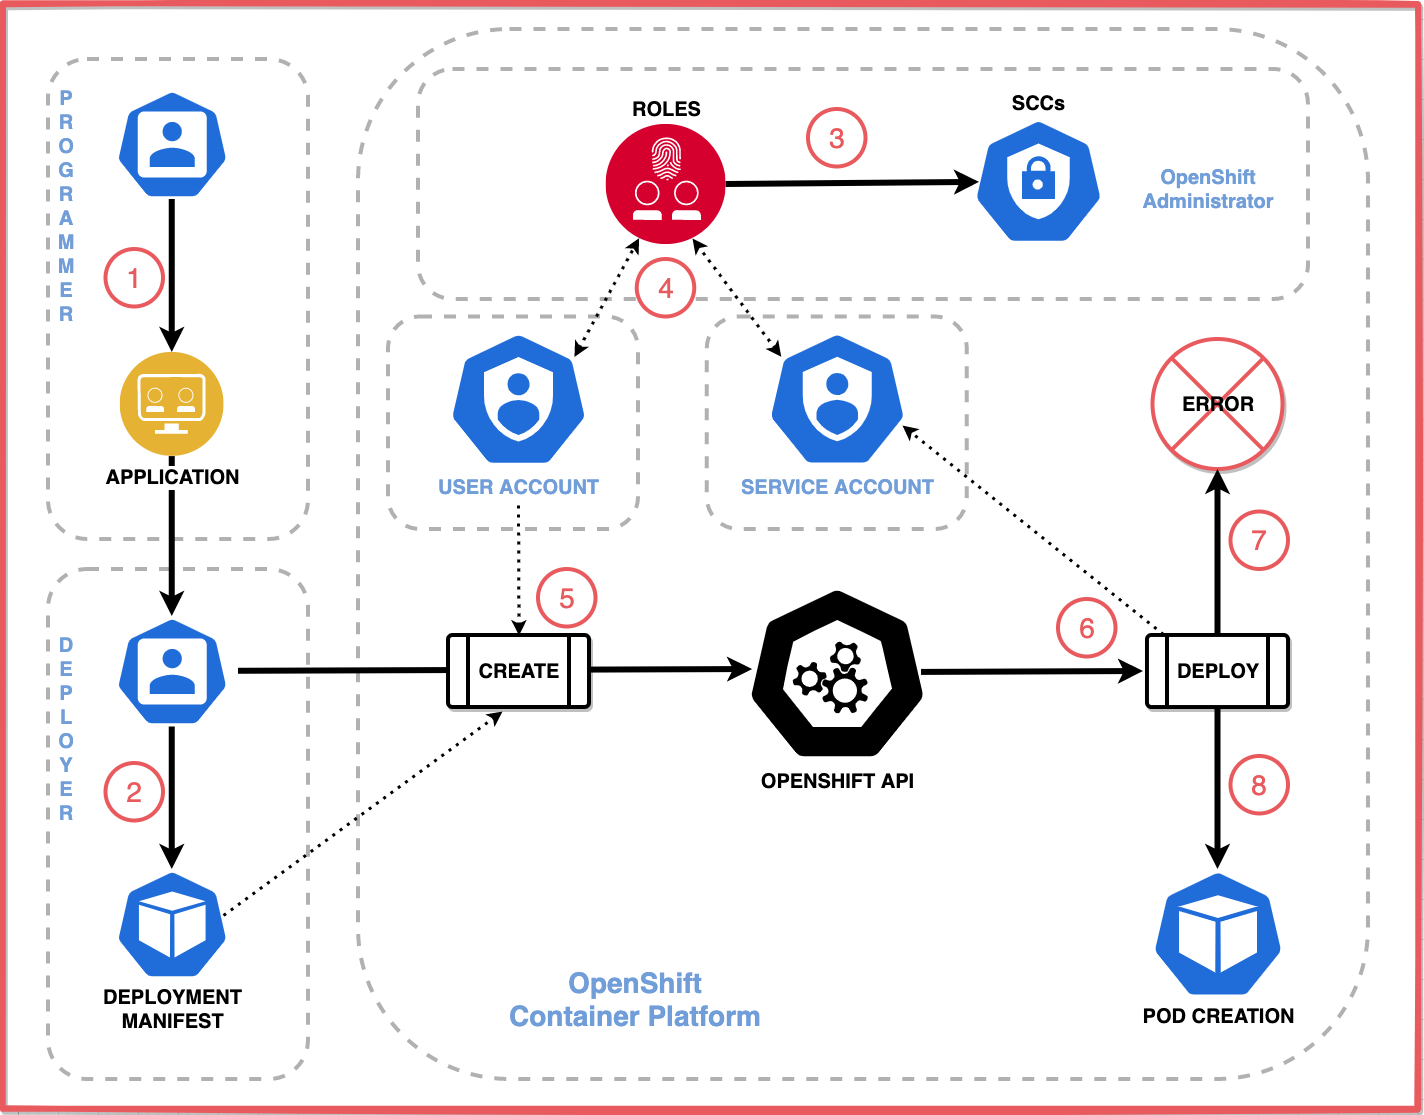
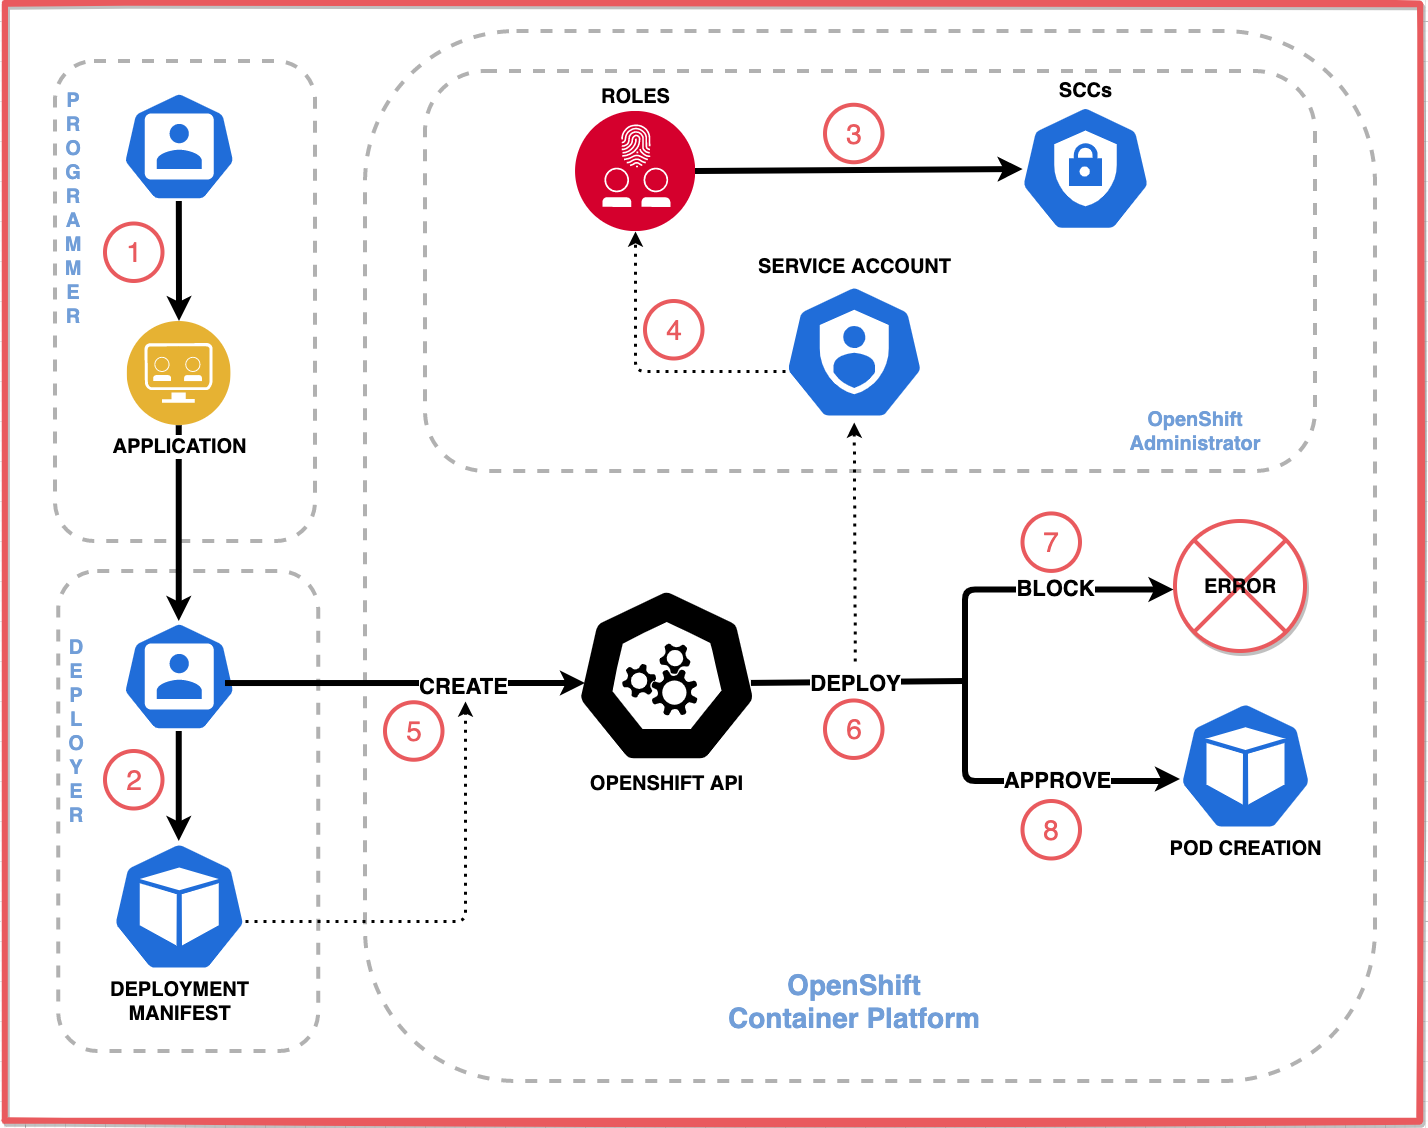
update diagrams

diff --git a/article/intro.md b/article/intro.md
@@ -9,21 +9,21 @@ This article is part 1 of a two-part series on security context constraints (SCC
 An OpenShift cluster provides several features for securing the cluster and the applications running in the cluster, including container security, certificate management, vulnerability scanning, and authentication and authorization. Security context constraints address one aspect of security, namely enabling an application the ability to access protected resources such as shared file systems and [privileged ip ports](https://www.w3.org/Daemon/User/Installation/PrivilegedPorts.html). To prevent even a rogue or hacked application from gaining access to resources it shouldn't be able to access, the access is configured by the pod running the application container and is enforced by the cluster. The application can only access the resources that the pod requests and that the cluster approves.
 
 An application's access to protected resources is an agreement between three personas:
-- A **developer** who writes an application that accesses protected resources
-- A **deployer** who writes the deployment manifest that must request the access the application requires
-- An **administrator** who decides whether to grant the deployment the access it requests
+
+* A **developer** who writes an application that accesses protected resources
+* A **deployer** who writes the deployment manifest that must request the access the application requires
+* An **administrator** who decides whether to grant the deployment the access it requests
 
 This diagram illustrates the components and process that allow an application to access resources:
 
 ![top-level](images/top-level.png)
-(_Rich: Please modify this diagram to show: Add a box to the Deployment Manifest labeled "application container". Add a Developer icon with an arrow pointing to the application container box and number this #1._)
 
-1. A developer writes an application 
+1. A developer writes an application
 1. A deployer creates a **deployment manifest** to deploy the application with a pod spec that configures:
     * A **security context** (for the pod and/or for each container) that requests the access needed by the application
     * A **service account** to grant the requested access
 1. An administrator assigns a **security context constraint** to the service account that grants the requested access
-    * The SCC can be assigned directly to the SA or indirectly via an RBAC role or group
+    * The SCC can be assigned directly to the service account or indirectly via an RBAC role or group
 1. The SCC may be one of OpenShift's predefined SCCs or may be a custom SCC
 1. If the SCC grants the access, the pod deploys successfully
 
@@ -60,16 +60,15 @@ To better understand how SCCs are used to control access on a Red Hat OpenShift 
 This diagram illustrates the deployment process:
 
 ![flow](images/flow.png)
-(_Rich: Please modify this diagram to remove the icons for User Account and Create. Show an arrow from the Deployer to the OpenShift API that depicts the Deployer deploying the Deployment Manifest. Also, extend the OpenShift Administrator box to include the Service Account. Thanks._)
 
 1. The **developer** implements an application or service that requires access to protected resources, and delivers the application to the deployer.
 1. The **deployer** creates a deployment manifest for the application. The manifest specifies a security context and a service account.
-1. The **administrator** creates a role and assigns it a security context constraint.
+1. The **administrator** creates a role and assigns it an SCC.
 1. The **administrator** creates a service account and binds it to the role.
 1. The **deployer** applies the deployment manifest, thereby deploying the application.
-1. OpenShift processes the manifest and attempts to deploy the pod. The deployment process will compare the permissions requested by the deployment manifest against the permissions allowed by the associated SCC. Does the associated SCC provide all of the permissions the deployment manifest requests?
-1. NO: Some requested permissions are not granted, so the deployment fails.
-1. YES: All requested permissions are granted, so the deployment creates the pod and runs the application.
+1. OpenShift processes the deployment manifest and attempts to deploy the pod. The deployment process will determine which SCC to use based on the sevice account specified in the manifest. It then compares the permissions requested by the manifest against the permissions allowed by the SCC. Does the associated SCC provide all of the permissions the deployment manifest requests?
+1. **NO**: Some requested permissions are not granted, so the deployment fails.
+1. **YES**: All requested permissions are granted, so the deployment creates the pod and runs the application.
 
 If the pod is denied the requested permissions, the administrator will need to:
 
